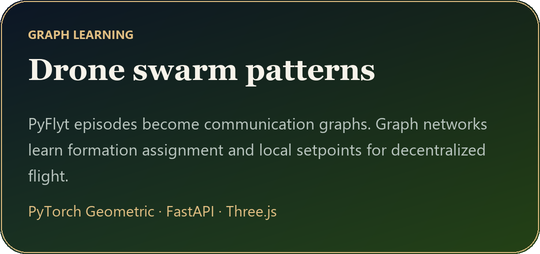
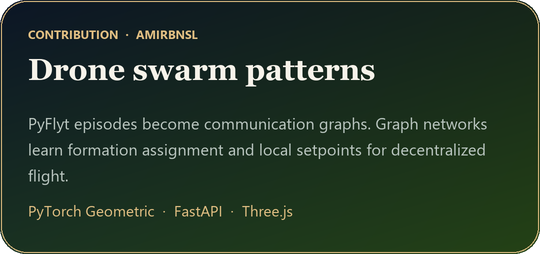
Show practical and academic skills separately, and list the drone work as a contribution.

Changed region(s): [[0.0593, 0.1102, 0.3852, 0.1654], [0.2963, 0.7992, 0.563, 0.8543]]

diff --git a/README.md b/README.md
@@ -27,18 +27,13 @@
 </td>
 </tr>
 <tr>
-<td valign="top" align="center">
-<a href="#top"><img src="assets/card-arwood.png" width="100%" alt="ARWood-tech: on-device YOLOv8 log segmentation and stacked timber volume"></a>
-</td>
-<td valign="top" align="center">
-<a href="#top"><img src="assets/card-drones.png" width="100%" alt="Drone swarm patterns: graph neural networks for decentralized formation control"></a>
+<td colspan="2" align="center">
+<a href="#top"><img src="assets/card-arwood.png" width="49%" alt="ARWood-tech: on-device YOLOv8 log segmentation and stacked timber volume"></a>
 </td>
 </tr>
 </table>
 
 <p align="center">AgriGraph follows <a href="https://arxiv.org/abs/2512.19970">Spatio-Temporal Graph Neural Networks for Dairy Farm Sustainability Forecasting and Counterfactual Policy Analysis</a>.</p>
-
-<p align="center"><strong>Want to see more details about the private repos? Click on <a href="https://rahaliakram.me">rahaliakram.me</a></strong></p>
 
 <h2>Contributions</h2>
 
@@ -53,22 +48,45 @@
 <a href="https://github.com/AmirBnsL/research_assistant_app"><img src="assets/card-research.png" width="100%" alt="Contribution: agentic arXiv research assistant"></a>
 </td>
 </tr>
+<tr>
+<td colspan="2" align="center">
+<a href="https://github.com/AmirBnsL/pattern-emergence-drone-swarms-gnn"><img src="assets/card-drones.png" width="49%" alt="Contribution: drone swarm patterns with graph neural networks"></a>
+</td>
+</tr>
 </table>
 
 <p align="center">
 <a href="https://github.com/AmirBnsL/breast-cancer-unsupervised-app">Breast cancer slides</a>
 &nbsp;·&nbsp;
 <a href="https://github.com/AmirBnsL/research_assistant_app">Research assistant</a>
+&nbsp;·&nbsp;
+<a href="https://github.com/AmirBnsL/pattern-emergence-drone-swarms-gnn">Drone swarm patterns</a>
 </p>
 
 <h2>Technologies</h2>
 
+<h3>Practical</h3>
+
 <p align="center">
-<a href="#top"><img src="assets/skill-modeling.png" width="100%" alt="Modeling: Python, PyTorch, PyTorch Geometric, scikit-learn, NumPy, pandas"></a>
+<a href="#top"><img src="assets/skill-p-modeling.png" width="100%" alt="Modeling: Python, PyTorch, PyTorch Geometric, scikit-learn, NumPy, pandas"></a>
 <br>
-<a href="#top"><img src="assets/skill-vision.png" width="100%" alt="Vision and language: DINOv2, YOLO, CTransPath, RAG, LLMs, NLP"></a>
+<a href="#top"><img src="assets/skill-p-vision.png" width="100%" alt="Vision: DINOv2, YOLO, CTransPath"></a>
 <br>
-<a href="#top"><img src="assets/skill-data.png" width="100%" alt="Data systems: PostgreSQL, MongoDB, Cassandra, Neo4j, Oracle, Spark"></a>
+<a href="#top"><img src="assets/skill-p-delivery.png" width="100%" alt="Around the models: FastAPI, React, Node.js, NestJS, Kotlin, PostgreSQL, MongoDB, Docker"></a>
+</p>
+
+<h3>Academic</h3>
+
+<p align="center">
+<a href="#top"><img src="assets/skill-a-learning.png" width="100%" alt="Learning: machine learning and deep learning in Python and PyTorch"></a>
 <br>
-<a href="#top"><img src="assets/skill-languages.png" width="100%" alt="Languages: Python, parallel computation in C, numerical analysis in R"></a>
+<a href="#top"><img src="assets/skill-a-language.png" width="100%" alt="RAG and LLMs: retrieval-augmented generation, large language models, and NLP"></a>
+<br>
+<a href="#top"><img src="assets/skill-a-spark.png" width="100%" alt="Scale: Apache Spark, MLlib, Spark SQL, and GraphX"></a>
+<br>
+<a href="#top"><img src="assets/skill-a-hpc.png" width="100%" alt="HPC: parallel numerical computation in C"></a>
+<br>
+<a href="#top"><img src="assets/skill-a-data.png" width="100%" alt="Data stores: PostgreSQL, Oracle, MongoDB, Cassandra, Neo4j"></a>
+<br>
+<a href="#top"><img src="assets/skill-a-numerics.png" width="100%" alt="Numerics: numerical analysis in R"></a>
 </p>
